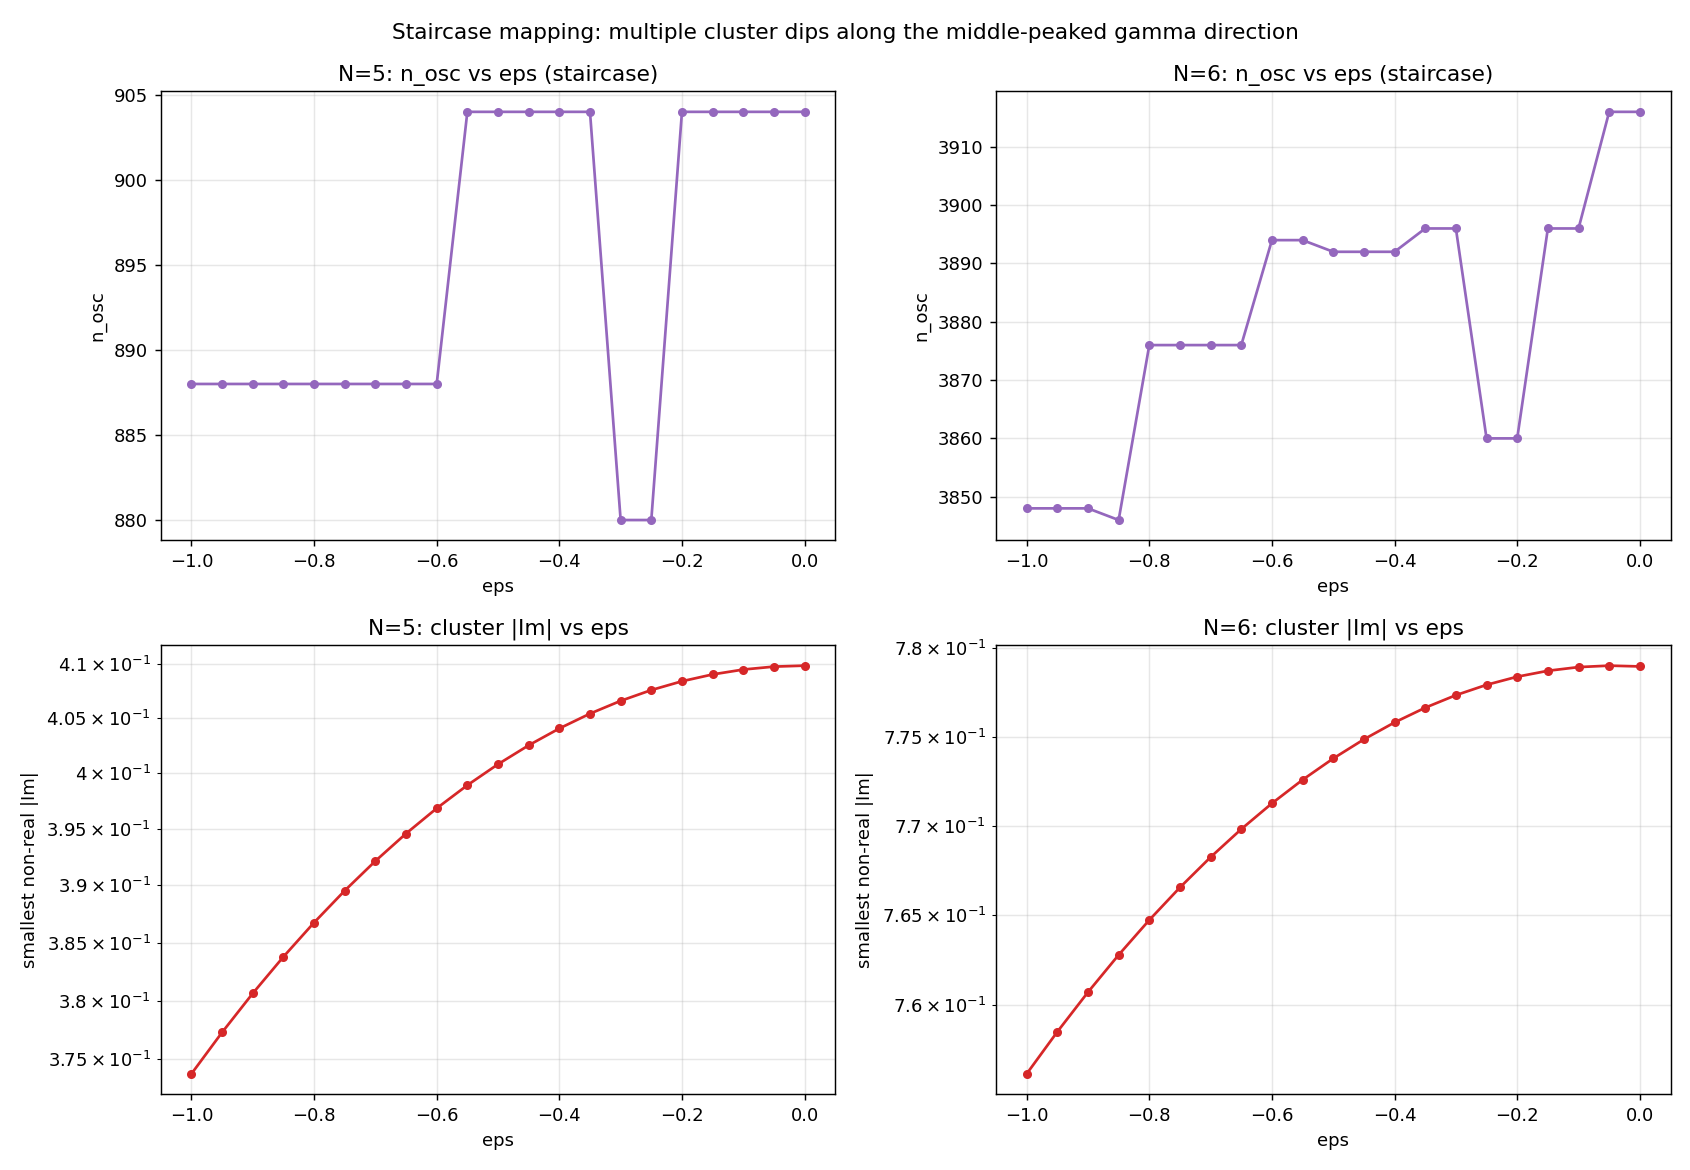
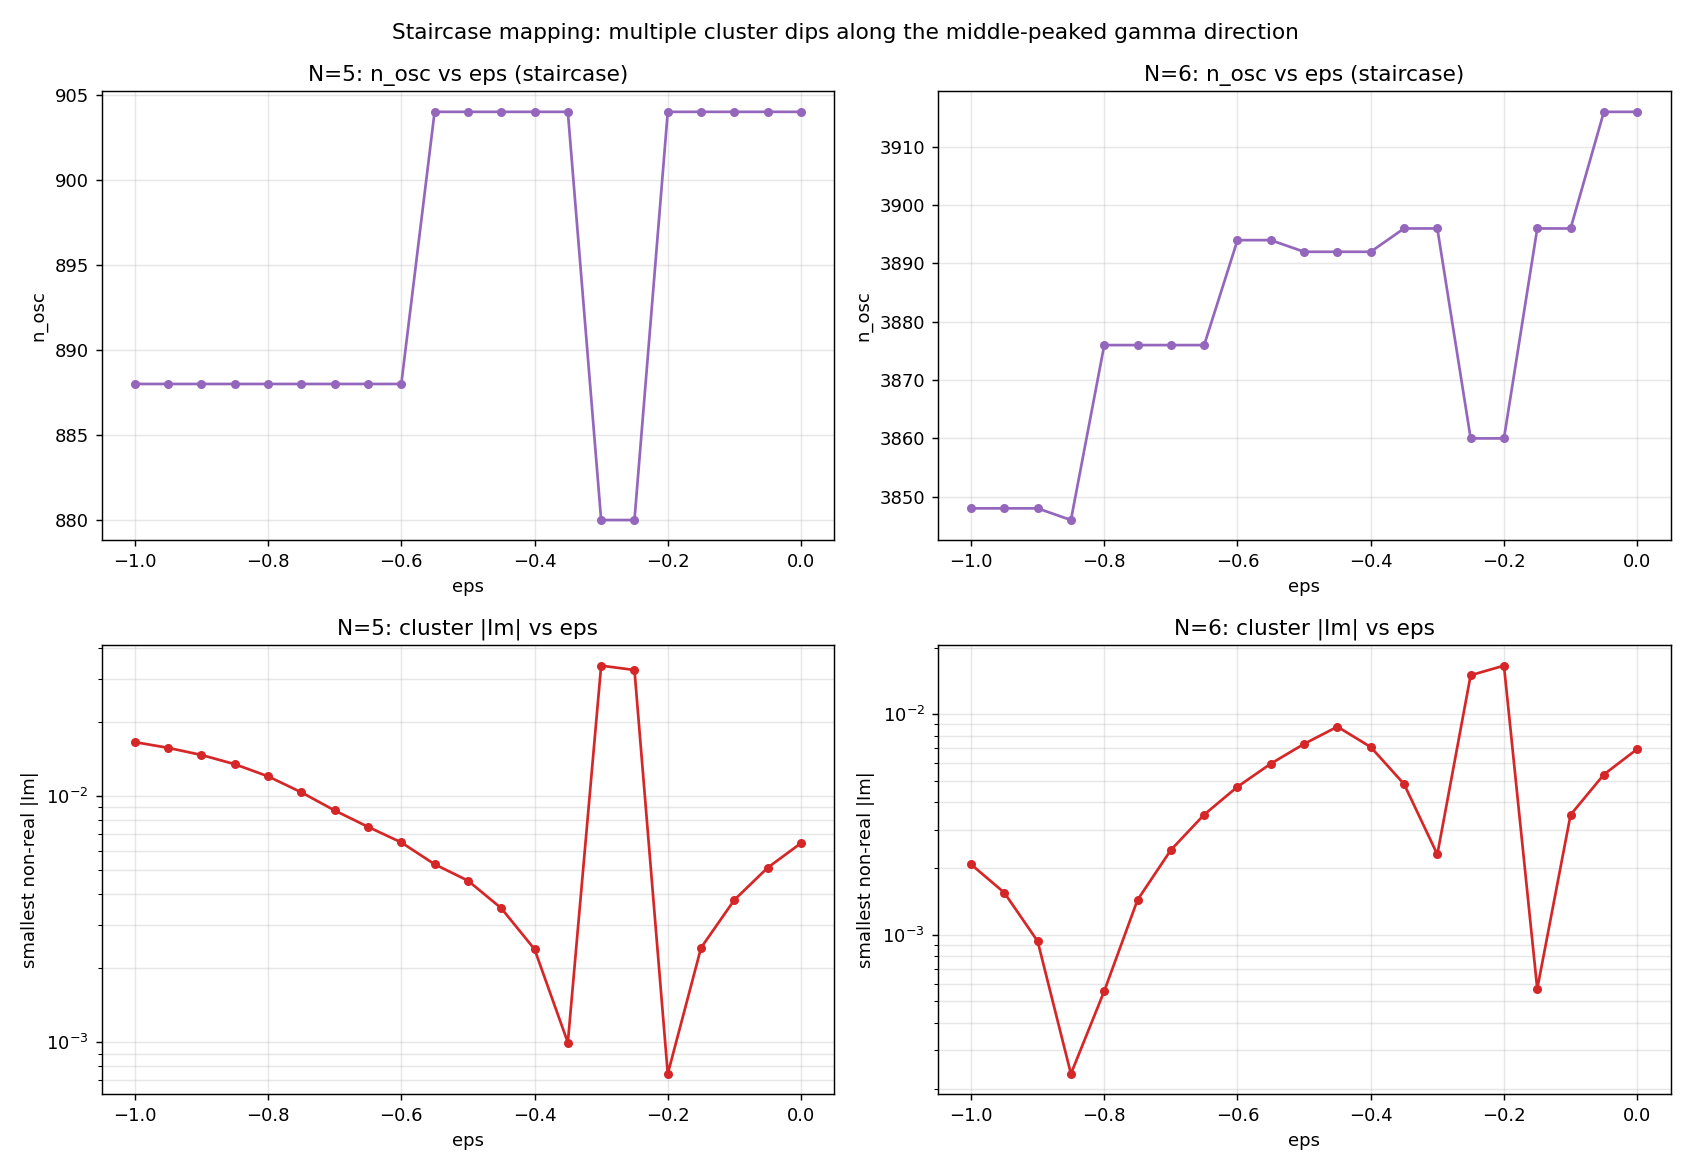
the rename campaign moved the files and left the pointers, and the hook could only see half of it
Fourteen probes were cited at simulations/_polarity_probe_*.py. All fourteen
exist and are tracked; the underscore is the fossil. The 2026-06-23 cleanup
renamed 346 scripts out of the gitignored `_` namespace and did not follow the
globs inside the documents that name them.

The WIP hook catches exactly the references that still spell `simulations/_`, so
it found eleven and could not find the rest. A sweep for the other shape, a
tracked file citing simulations/<name>.py where no such file exists, found six
more, all of them fossils of the framework package split:

  framework.py            -> framework_archive.py (100% rename in 6964dd2;
                             Section 17 is at :1940 and still exposes the three
                             symbols RECEIVER_VS_GAMMA_SACRIFICE names)
  framework/core.py       -> the modules a593bfa split it into, one per proof:
                             f81_pi_decomposition.py, f49_frobenius_scaling.py,
                             symmetry.py, each verified to hold the named symbol
  tests/test_smoke.py     -> tests/diagnostics/test_f78_f79_m_structure.py
  palindrome_residual     -> framework/lindblad.py:172

Two were never in the repo at all, on any branch, and are gone rather than
moved: pythagorean_breaking.py, which CROSS_TERM_TOPOLOGY offered as the record
of other noise types, and review2_A8_time.py, cited by a C# witness while its
siblings A3, A5 and A9 exist. Both citations are removed; the first is replaced
[…]

diff --git a/compute/RCPsiSquared.Core/Symmetry/LindbladBitBPiBalance.cs b/compute/RCPsiSquared.Core/Symmetry/LindbladBitBPiBalance.cs
@@ -314,7 +314,7 @@ public sealed class LindbladBitBPiBalance : Claim, IZ2AxisClaim
                          "maps Π +i ↔ Π −i bijectively while preserving Frobenius (Lemma A); combining gives " +
                          "‖L_{H,+i}‖² = ‖L_{H,-i}‖². ∎");
             yield return new InspectableNode("Empirical anchor",
-                summary: "14 probes in simulations/_polarity_probe_*.py, polarity_proof_verify.py, " +
+                summary: "14 probes in simulations/polarity_probe_*.py, polarity_proof_verify.py, " +
                          "polarity_step5_stress.py: candidate-breakers (1-5), hand-engineered non-Lindblad " +
                          "L (6), random c with full Pauli rank (7-8), k_max boundary (9), exhaustive 136-pair " +
                          "N=2 enumeration (10, of which 64 carry genuine polarity content), coefficient " +

diff --git a/compute/RCPsiSquared.Diagnostics/Foundation/TimeIrreversibilityExclusionWitness.cs b/compute/RCPsiSquared.Diagnostics/Foundation/TimeIrreversibilityExclusionWitness.cs
@@ -37,7 +37,7 @@ namespace RCPsiSquared.Diagnostics.Foundation;
 /// <para>Guard: N ≤ <see cref="MaxN"/> (= 5), where the Liouvillian is 4^N × 4^N = 1024 × 1024 and
 /// each anticommutator is a handful of 1024³ complex multiplies. Anchors:
 /// <c>docs/proofs/TIME_IRREVERSIBILITY_EXCLUSION.md</c> + <c>docs/proofs/PROOF_CROSS_TERM_FORMULA.md</c>
-/// (the uniform-γ 4γ²(N−2)‖L_H‖² parent) + <c>simulations/review2_A8_time.py</c>.</para></summary>
+/// (the uniform-γ 4γ²(N−2)‖L_H‖² parent).</para></summary>
 public sealed class TimeIrreversibilityExclusionWitness : IInspectable
 {
     private static readonly CultureInfo Inv = CultureInfo.InvariantCulture;

diff --git a/simulations/atmosphere_staircase.py b/simulations/atmosphere_staircase.py
@@ -78,7 +78,9 @@ for N in N_LIST:
         n_real_10 = int(np.sum(aim < 1e-10))
         n_osc = int(np.sum(aim > 1e-7))
         nonreal = aim[aim >= 1e-13]
-        smin = float(nonreal[0]) if nonreal.size else float('nan')
+        # min(), not [0]: aim comes back in LAPACK's order, not sorted, so [0] reported an
+        # arbitrary non-real |Im| under a column header promising the smallest one.
+        smin = float(nonreal.min()) if nonreal.size else float('nan')
         rows.append((float(eps), n_real_10, n_osc, smin))
         print(f"  {eps:>+7.3f}  {n_real_10:>8}  {n_osc:>8}  {smin:>22.3e}")
         sys.stdout.flush()

diff --git a/compute/RCPsiSquared.Core/Symmetry/HardCellPureDTemplate.cs b/compute/RCPsiSquared.Core/Symmetry/HardCellPureDTemplate.cs
@@ -54,7 +54,7 @@ namespace RCPsiSquared.Core.Symmetry;
 /// single-term H in the diagonal cell (no separation); and Q_V × Π composition
 /// over V ∈ {X^N, Y^N, Z^N} × Π (no zero-residual hits). The structural Pure-D
 /// Template Rule emerged from the resulting empirical decomposition
-/// (<c>simulations/_f111_*.py</c>, <c>simulations/results/f111_*.txt</c>), and
+/// (<c>simulations/f111_*.py</c>, <c>simulations/results/f111_*.txt</c>), and
 /// captures the F87-hard combinatorics tightly enough to imply F110 Aspect B
 /// without invoking a closed-form palindromic-operator construction.</para>
 ///

diff --git a/experiments/ATMOSPHERE_CLUSTER.md b/experiments/ATMOSPHERE_CLUSTER.md
@@ -5,7 +5,7 @@
 **Authors:** Thomas Wicht, Claude (Opus 4.7)
 **Depends on:** [The Atmosphere and the Cancelled Formulas](../docs/THE_ATMOSPHERE_AND_THE_CANCELLED_FORMULAS.md), [On the Admixture as Lebensader](../reflections/ON_THE_ADMIXTURE_AS_LEBENSADER.md), F1 palindrome (master identity), F71 mirror-symmetry under non-uniform J, [the F80 Bloch sign-walk proof](../docs/proofs/PROOF_F80_BLOCH_SIGNWALK.md)
 
-**Verification:** WIP scripts in `simulations/_atmosphere_*.py` (~13 files, uncommitted) plus the private notes doc `simulations/_atmosphere_cluster_notes.md`. Headline scripts: `atmosphere_cluster_fine.py` (dip location), `atmosphere_cluster_modes.py` (Pauli sector ID), `atmosphere_cluster_ep.py` (EP refutation), `atmosphere_cluster_continuity.py` (intrinsic-at-uniform tracking), `atmosphere_cluster_modes_at_uniform.py` (Pauli sector at ε=0), `atmosphere_cluster_quantum_numbers_v2.py` (Set-A joint diagonalization), `atmosphere_cluster_300block.py` (sector-restricted block analysis), `atmosphere_cluster_freefermion_check.py` (null result on free-fermion hypothesis).
+**Verification:** the seventeen scripts in [`simulations/atmosphere_*.py`](../simulations/), plus the investigation notes [`simulations/_atmosphere_cluster_notes.md`](../simulations/_atmosphere_cluster_notes.md). Headline scripts: `atmosphere_cluster_fine.py` (dip location), `atmosphere_cluster_modes.py` (Pauli sector ID), `atmosphere_cluster_ep.py` (EP refutation), `atmosphere_cluster_continuity.py` (intrinsic-at-uniform tracking), `atmosphere_cluster_modes_at_uniform.py` (Pauli sector at ε=0), `atmosphere_cluster_quantum_numbers_v2.py` (Set-A joint diagonalization), `atmosphere_cluster_300block.py` (sector-restricted block analysis), `atmosphere_cluster_freefermion_check.py` (null result on free-fermion hypothesis).
 
 ---
 
@@ -113,11 +113,11 @@ The unifying reading: the F1 master identity Π·L·Π⁻¹ + L + 2σ·I = 0 glo
 
 ## Cross-references
 
-- Cluster headline doc (private notes): `simulations/_atmosphere_cluster_notes.md`
-- WIP scripts (13 files, all `_atmosphere_*` prefix, uncommitted): see Verification block above
+- Cluster headline doc (investigation notes): [`simulations/_atmosphere_cluster_notes.md`](../simulations/_atmosphere_cluster_notes.md)
+- Scripts (17 files, all `atmosphere_*` prefix): see Verification block above
 - Lebensader through-line: [On the Admixture as Lebensader](../reflections/ON_THE_ADMIXTURE_AS_LEBENSADER.md), [`framework/lebensader.py`](../simulations/framework/lebensader.py), F78/F79/F80 in [Analytical Formulas](../docs/ANALYTICAL_FORMULAS.md)
 - Master identity F1 / palindrome: [`compute/RCPsiSquared.Core/F1/F1PalindromeIdentity.cs`](../compute/RCPsiSquared.Core/F1/F1PalindromeIdentity.cs)
-- F71 mirror under non-uniform J: typed as F100 ([memory `project_f71_nonuniform_j`](../.claude/projects/D--Entwicklung-Projekte-Privat-R-equals-C-Psi-squared/memory/project_f71_nonuniform_j.md))
+- F71 mirror under non-uniform J: typed as F100 (memory `project_f71_nonuniform_j`)
 - F80 Bloch sign-walk proof: [the F80 Bloch sign-walk proof](../docs/proofs/PROOF_F80_BLOCH_SIGNWALK.md)
 - Jordan-Wigner / free-fermion infrastructure: `compute/RCPsiSquared.Core/.../XyJordanWignerModes.cs`, `C2BlockJwDecomposition.cs`, `JwDispersionStructure.cs`; Python `framework/diagnostics/f80_bloch_signwalk.py`
 - Related memories: `project_lebensader_through_line`, `project_channel_not_memory`, `project_palindrome_frobenius_scaling`, `project_f86_is_input_catalog`, `project_f86_sub_partition`, `project_q_middle_structure`

diff --git a/hypotheses/Q_AS_THE_EXCHANGE_RATE.md b/hypotheses/Q_AS_THE_EXCHANGE_RATE.md
@@ -17,7 +17,7 @@ The framework has two clocks that observe the same physical time but name its pa
 
 This is not a new physical claim. It is a re-reading of two existing Tier-1 facts:
 
-- Q = J/γ₀ is the only ratio measurable from inside (per [`project_q_middle_structure`](../../../../../../../C:/Users/zapma/.claude/projects/D--Entwicklung-Projekte-Privat-R-equals-C-Psi-squared/memory/project_q_middle_structure.md))
+- Q = J/γ₀ is the only ratio measurable from inside (per memory `project_q_middle_structure`)
 - θ = arctan(Q) is the angle of the Liouvillian-eigenvalue complex pair per γ₀-tick (per F95 + [`ON_HOW_GAMMA_BECAME_THE_TICK.md`](../reflections/ON_HOW_GAMMA_BECAME_THE_TICK.md))
 
 What is new is the framing: Q is not "coupling-to-noise" or even "rotation-per-tick" but **the exchange rate between two clocks the observer can read simultaneously**.
@@ -44,7 +44,7 @@ The Balance row (Q=1) is the unique synchron point where the two clocks tick at 
 
 Three alternative framings each capture part of the structure but miss the symmetry:
 
-1. **"Q is the coupling-to-noise ratio"** (old `project_q_middle_structure` phrasing): treats J as signal and γ₀ as noise. But γ₀ is the carrier-substrate, not noise (per [`GAMMA_IS_LIGHT.md`](GAMMA_IS_LIGHT.md), [`feedback_perspective_additive`](../../../../../../../C:/Users/zapma/.claude/projects/D--Entwicklung-Projekte-Privat-R-equals-C-Psi-squared/memory/feedback_perspective_additive.md)). The "noise" framing imports the Shannon-vocabulary contamination.
+1. **"Q is the coupling-to-noise ratio"** (old `project_q_middle_structure` phrasing): treats J as signal and γ₀ as noise. But γ₀ is the carrier-substrate, not noise (per [`GAMMA_IS_LIGHT.md`](GAMMA_IS_LIGHT.md), memory `feedback_perspective_additive`). The "noise" framing imports the Shannon-vocabulary contamination.
 
 2. **"Q is the rotation per γ₀-tick"** ([`ON_HOW_GAMMA_BECAME_THE_TICK.md`](../reflections/ON_HOW_GAMMA_BECAME_THE_TICK.md)): correct, but treats γ₀ as the primary clock and Q as something it modulates. Misses the symmetry: from the H-Clock perspective, 1/Q is "γ₀-ticks per rotation", equally valid.
 
@@ -64,7 +64,7 @@ The exchange-rate framing names what Q actually is: **a bidirectional conversion
 
 ## Connection to the Q-band structure
 
-The F86 Q-bands (onset 0.2–0.35, peak 1.2–1.8, plateau ≥ 2.0 per [`project_q_middle_structure`](../../../../../../../C:/Users/zapma/.claude/projects/D--Entwicklung-Projekte-Privat-R-equals-C-Psi-squared/memory/project_q_middle_structure.md)) are exchange-rate regimes:
+The F86 Q-bands (onset 0.2–0.35, peak 1.2–1.8, plateau ≥ 2.0 per memory `project_q_middle_structure`) are exchange-rate regimes:
 
 - **Onset band** (Q ≪ 1): exchange rate strongly toward γ₀-clock. The observer counts many γ₀-ticks per single H-rotation. Felt-time is *slow* relative to carrier-time.
 - **Balance** (Q ≈ 1): exchange rate balanced. Both clocks contribute symmetrically.

diff --git a/docs/proofs/PROOF_F111_HARD_CELL_PURE_D_TEMPLATE.md b/docs/proofs/PROOF_F111_HARD_CELL_PURE_D_TEMPLATE.md
@@ -102,7 +102,7 @@ This is a MECHANISM plus a measured witness, not a derivation from the letter st
 
 **Subclaim (c):** Pair (Pure-D, Mixed) H at k = N = 4 is F87-hard. Empirically verified: all 192 Pure-Mixed pairs per diagonal cell are hard. Closed-form mechanism open.
 
-**Subclaim (d) BLOCKING:** Pair (Mixed, Mixed) H at k = N = 4 is F87-soft. Empirically verified: all 300 Mixed-Mixed pairs per diagonal cell are soft. **No operator-level closed-form construction found.** Sum of two soft Hamiltonians can be hard in general; the empirical fact that Mixed + Mixed stays soft requires a deeper mechanism we could not construct via per-site M operator search (Path 1: 512 phase variants × 2 dissipator-valid permutations per dephase scanned, no winners) nor via existing F108 Π_5bilinear (Path 2: residual 32 uniformly on off-y_par single-term H) nor via global Q_V × Π compositions (Path 3: no zero-residual hits). See `simulations/_f111_path*.py` for the verification scripts.
+**Subclaim (d) BLOCKING:** Pair (Mixed, Mixed) H at k = N = 4 is F87-soft. Empirically verified: all 300 Mixed-Mixed pairs per diagonal cell are soft. **No operator-level closed-form construction found.** Sum of two soft Hamiltonians can be hard in general; the empirical fact that Mixed + Mixed stays soft requires a deeper mechanism we could not construct via per-site M operator search (Path 1: 512 phase variants × 2 dissipator-valid permutations per dephase scanned, no winners) nor via existing F108 Π_5bilinear (Path 2: residual 32 uniformly on off-y_par single-term H) nor via global Q_V × Π compositions (Path 3: no zero-residual hits). See `simulations/f111_path1_operator_search.py` (Path 1), `simulations/f111_path2_pi5bilinear_test.py` (Path 2) and `simulations/f111_combined_operator_search.py` (Path 3) for the verification scripts.
 
 The spectrum-level palindromy IS realized by some similarity transformation (existence guaranteed by palindromic spectrum), but it is non-tensor-product, non-Pauli-permutation, and not analytically constructible by the candidate operators tried.
 

diff --git a/review/EMERGING_QUESTIONS.md b/review/EMERGING_QUESTIONS.md
@@ -1381,7 +1381,7 @@ framework-grounded scope: the Q · J · Q⁻¹ + J + 2·S = 0 algebra describes 
 **Date:** 2026-04-26
 **Source:** Cusp precision run (commit 1c2545a) + framework.py palindrome_residual
 
-The cusp at CΨ = 1/4 is a state-level event observed on the Bell+ trajectory ([CRITICAL_SLOWING_AT_THE_CUSP](../experiments/CRITICAL_SLOWING_AT_THE_CUSP.md)). The palindrome Π·L·Π⁻¹ + L + 2Σγ·I = 0 is operator-level and holds throughout the Bell+ + Z-dephasing dynamics (verified machine-precision zero by framework.py's [palindrome_residual](../simulations/framework.py)). **Is there an operator-level signature — a specific block of M, an eigenvalue collision, an eigenvector reorientation — that corresponds to the state-level critical slowing at CΨ → 1/4? Or is the cusp purely a state-level phenomenon with no operator-level analogue?**
+The cusp at CΨ = 1/4 is a state-level event observed on the Bell+ trajectory ([CRITICAL_SLOWING_AT_THE_CUSP](../experiments/CRITICAL_SLOWING_AT_THE_CUSP.md)). The palindrome Π·L·Π⁻¹ + L + 2Σγ·I = 0 is operator-level and holds throughout the Bell+ + Z-dephasing dynamics (verified machine-precision zero by the framework's [palindrome_residual](../simulations/framework/lindblad.py)). **Is there an operator-level signature — a specific block of M, an eigenvalue collision, an eigenvector reorientation — that corresponds to the state-level critical slowing at CΨ → 1/4? Or is the cusp purely a state-level phenomenon with no operator-level analogue?**
 
 framework.py grounds: palindrome_residual at all times for Bell+/Heisenberg/Z-dephasing remains zero. The state-level CΨ trajectory passes through 1/4. Two layers, no obvious bridge primitive yet.
 

diff --git a/docs/proofs/PROOF_F89_PATH_D_CLOSED_FORM.md b/docs/proofs/PROOF_F89_PATH_D_CLOSED_FORM.md
@@ -210,7 +210,7 @@ Two node-identity collapses, sharing the trigonometric core of the L̃ lemma, re
 
 **Residual for k ≡ 2 mod 4.** Now Φ_u(0) = 0, u is a zero-divisor (Φ_u = u·Ψ), and the argument yields only u²·W ≡ 0 (mod (4, Φ_u)); deducing W ≡ 0 needs one more 2-adic step. The CRT splitting ℤ₂[u]/Φ_u ≅ ℤ₂ × ℤ₂[u]/Ψ handles the unit part, leaving the kernel sub-case m = 2^a (k = 6, 14, 30, 62, …) as the single open point, verified bit-exact k = 6..42.
 
-So top-degree dominance is rigorous for odd k and 4|k, and reduced to one 2-adic cancellation in the m = 2^a sub-case for k ≡ 2 mod 4. The entire 2-adic valuation v2(D_k) is then proven except (a) the two L̃ closed forms (bit-exact k=3..51, with elementary v2) and (b) this single m = 2^a sub-case. Two independent routes reach the same residual: `simulations/_f89_edgeA_*` (the Lemma 1 / Lemma 2 / unit closure above) and `simulations/_f89_edgeB_*` (a Newton-polygon / integer-divisibility route: F1 v2(R_0)=3, F2 16|R_d for d≥1), with the cost profile in `simulations/f89_edge_scout.py`.
+So top-degree dominance is rigorous for odd k and 4|k, and reduced to one 2-adic cancellation in the m = 2^a sub-case for k ≡ 2 mod 4. The entire 2-adic valuation v2(D_k) is then proven except (a) the two L̃ closed forms (bit-exact k=3..51, with elementary v2) and (b) this single m = 2^a sub-case. Two independent routes reach the same residual: `simulations/f89_edgeA_summary.py` (the Lemma 1 / Lemma 2 / unit closure above) and `simulations/f89_edgeB_final.py` (a Newton-polygon / integer-divisibility route: F1 v2(R_0)=3, F2 16|R_d for d≥1), with the cost profile in `simulations/f89_edge_scout.py`.
 
 ---
 

diff --git a/experiments/ASYMMETRIC_EXCHANGE_FROM_V_EFFECT.md b/experiments/ASYMMETRIC_EXCHANGE_FROM_V_EFFECT.md
@@ -1,6 +1,6 @@
 # Asymmetric V-Effect Emergent Exchange
 
-**Status:** Computational + analytical (Tier 1-2). First framework-based calculation built on `simulations/framework.py` primitives. Numerical agreement to 0.2-0.8 % at α=0.025 across 7 asymmetry configurations.
+**Status:** Computational + analytical (Tier 1-2). First framework-based calculation built on the primitives of the then-monolithic framework (now `simulations/framework_archive.py`, split into the `simulations/framework/` package). Numerical agreement to 0.2-0.8 % at α=0.025 across 7 asymmetry configurations.
 **Date:** 2026-04-25
 **Authors:** Thomas Wicht, Claude (Opus 4.7)
 **Pipeline:** `simulations/asymmetric_v_effect.py` (uses `framework.py`)
@@ -101,5 +101,5 @@ The prediction holds across nearly two orders of magnitude in J_A/J_B asymmetry 
 - [V-Effect Boundary Localization](V_EFFECT_BOUNDARY_LOCALIZATION.md): the algebraic structure of where V-Effect breaks live.
 - [the Zero-Immunity proof](../docs/proofs/PROOF_ZERO_IMMUNITY.md): the (w=0, w=N) palindrome immunity that grounds this whole construction.
 - [Heisenberg Reloaded](../hypotheses/HEISENBERG_RELOADED.md): the level-stack picture into which this fits.
-- `simulations/framework.py`: framework primitives.
+- [`simulations/framework_archive.py`](../simulations/framework_archive.py): the framework primitives as they stood; the live package is [`simulations/framework/`](../simulations/framework/).
 - `simulations/asymmetric_v_effect.py`: this calculation's pipeline.

diff --git a/docs/proofs/PROOF_SVD_CLUSTER_STRUCTURE.md b/docs/proofs/PROOF_SVD_CLUSTER_STRUCTURE.md
@@ -406,4 +406,4 @@ The Lebensader reduction therefore closes the universality for the (R1)+(R2)-cas
 | F79 Π²-even block-diag | `svd_two_body_pi_squared_block.py` | YZ, YZ+ZY, Heisenberg: ‖M[V_+,V_-]‖ = 0 exactly |
 | F79 Π²-odd off-diag | `svd_two_body_pi_squared_block.py` | XY, XZ, XX+XY: ‖M[V_+,V_+]‖ = ‖M[V_-,V_-]‖ = 0 exactly |
 | F79 Π²-odd universality | `svd_two_body_structure.py` | XY ≡ XZ ≡ XX+XY ≡ XX+XZ at N=5 chain, identical SV-cluster spectra |
-| Pytest locks | `simulations/framework/tests/test_smoke.py` | `test_F78_single_body_M_additive_decomposition` (chain N=4 IY+YI clusters), `test_F79_two_body_pi_squared_block_decomposition` (block structure + universality) |
+| Pytest locks | `simulations/framework/tests/diagnostics/test_f78_f79_m_structure.py` | `test_F78_single_body_M_additive_decomposition` (chain N=4 IY+YI clusters), `test_F79_two_body_pi_squared_block_decomposition` (block structure + universality) |

diff --git a/experiments/RECEIVER_VS_GAMMA_SACRIFICE.md b/experiments/RECEIVER_VS_GAMMA_SACRIFICE.md
@@ -353,7 +353,7 @@ Predicted scaling:
 
 To check the prediction, the existing brecher receiver-engineering protocol (alt-z-bits |010010⟩ vs |+−+−+−⟩ at N=6) needs new C# runs. If the existing 11-15× advantage shrinks or inverts at N=6, the parity-tied mechanism is confirmed for the receiver-engineering metric (MI(0, N-1)) and not just the J-Jacobian Shannon capacity.
 
-**Framework primitive.** `simulations/framework.py` Section 17 (added 2026-04-28) exposes:
+**Framework primitive.** Section 17 of the then-monolithic framework, added 2026-04-28 and now archived as [`simulations/framework_archive.py`](../simulations/framework_archive.py), exposes:
 
 - `f71_eigenstate_class(psi)`: returns +1 / −1 / None
 - `bond_mirror_basis(N)`: returns (sym_basis, asym_basis) for the bond-input space
